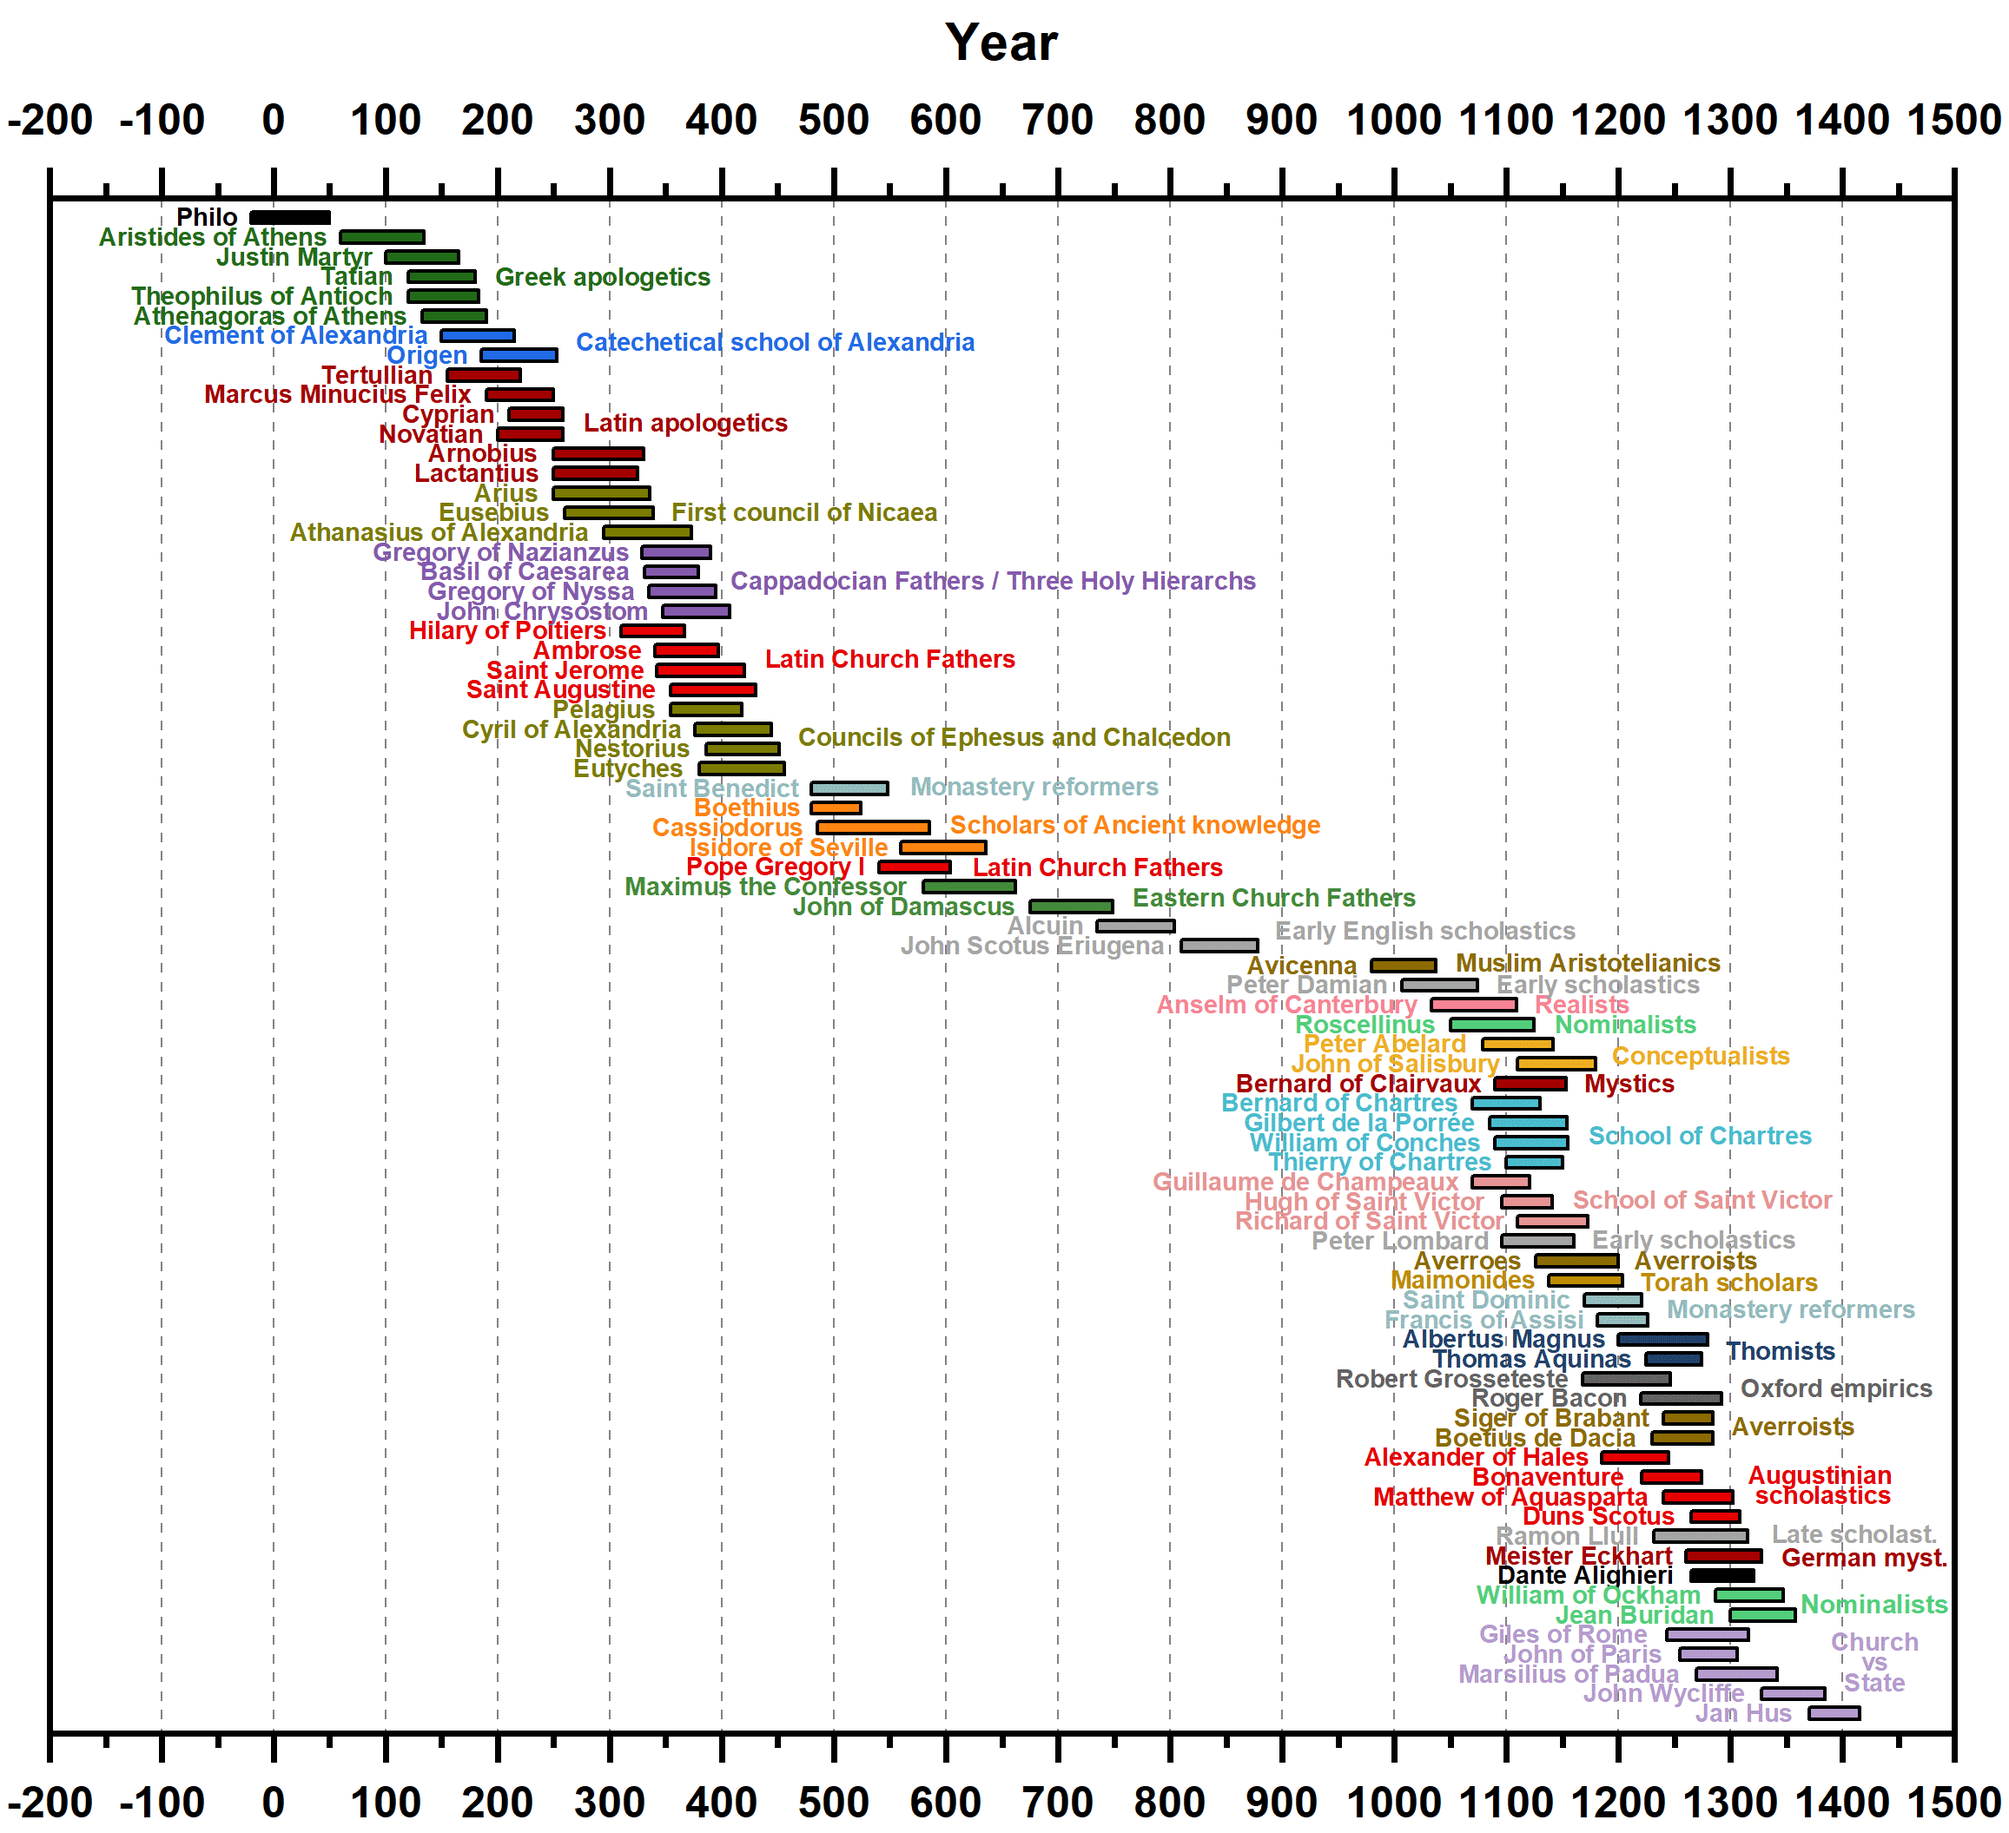
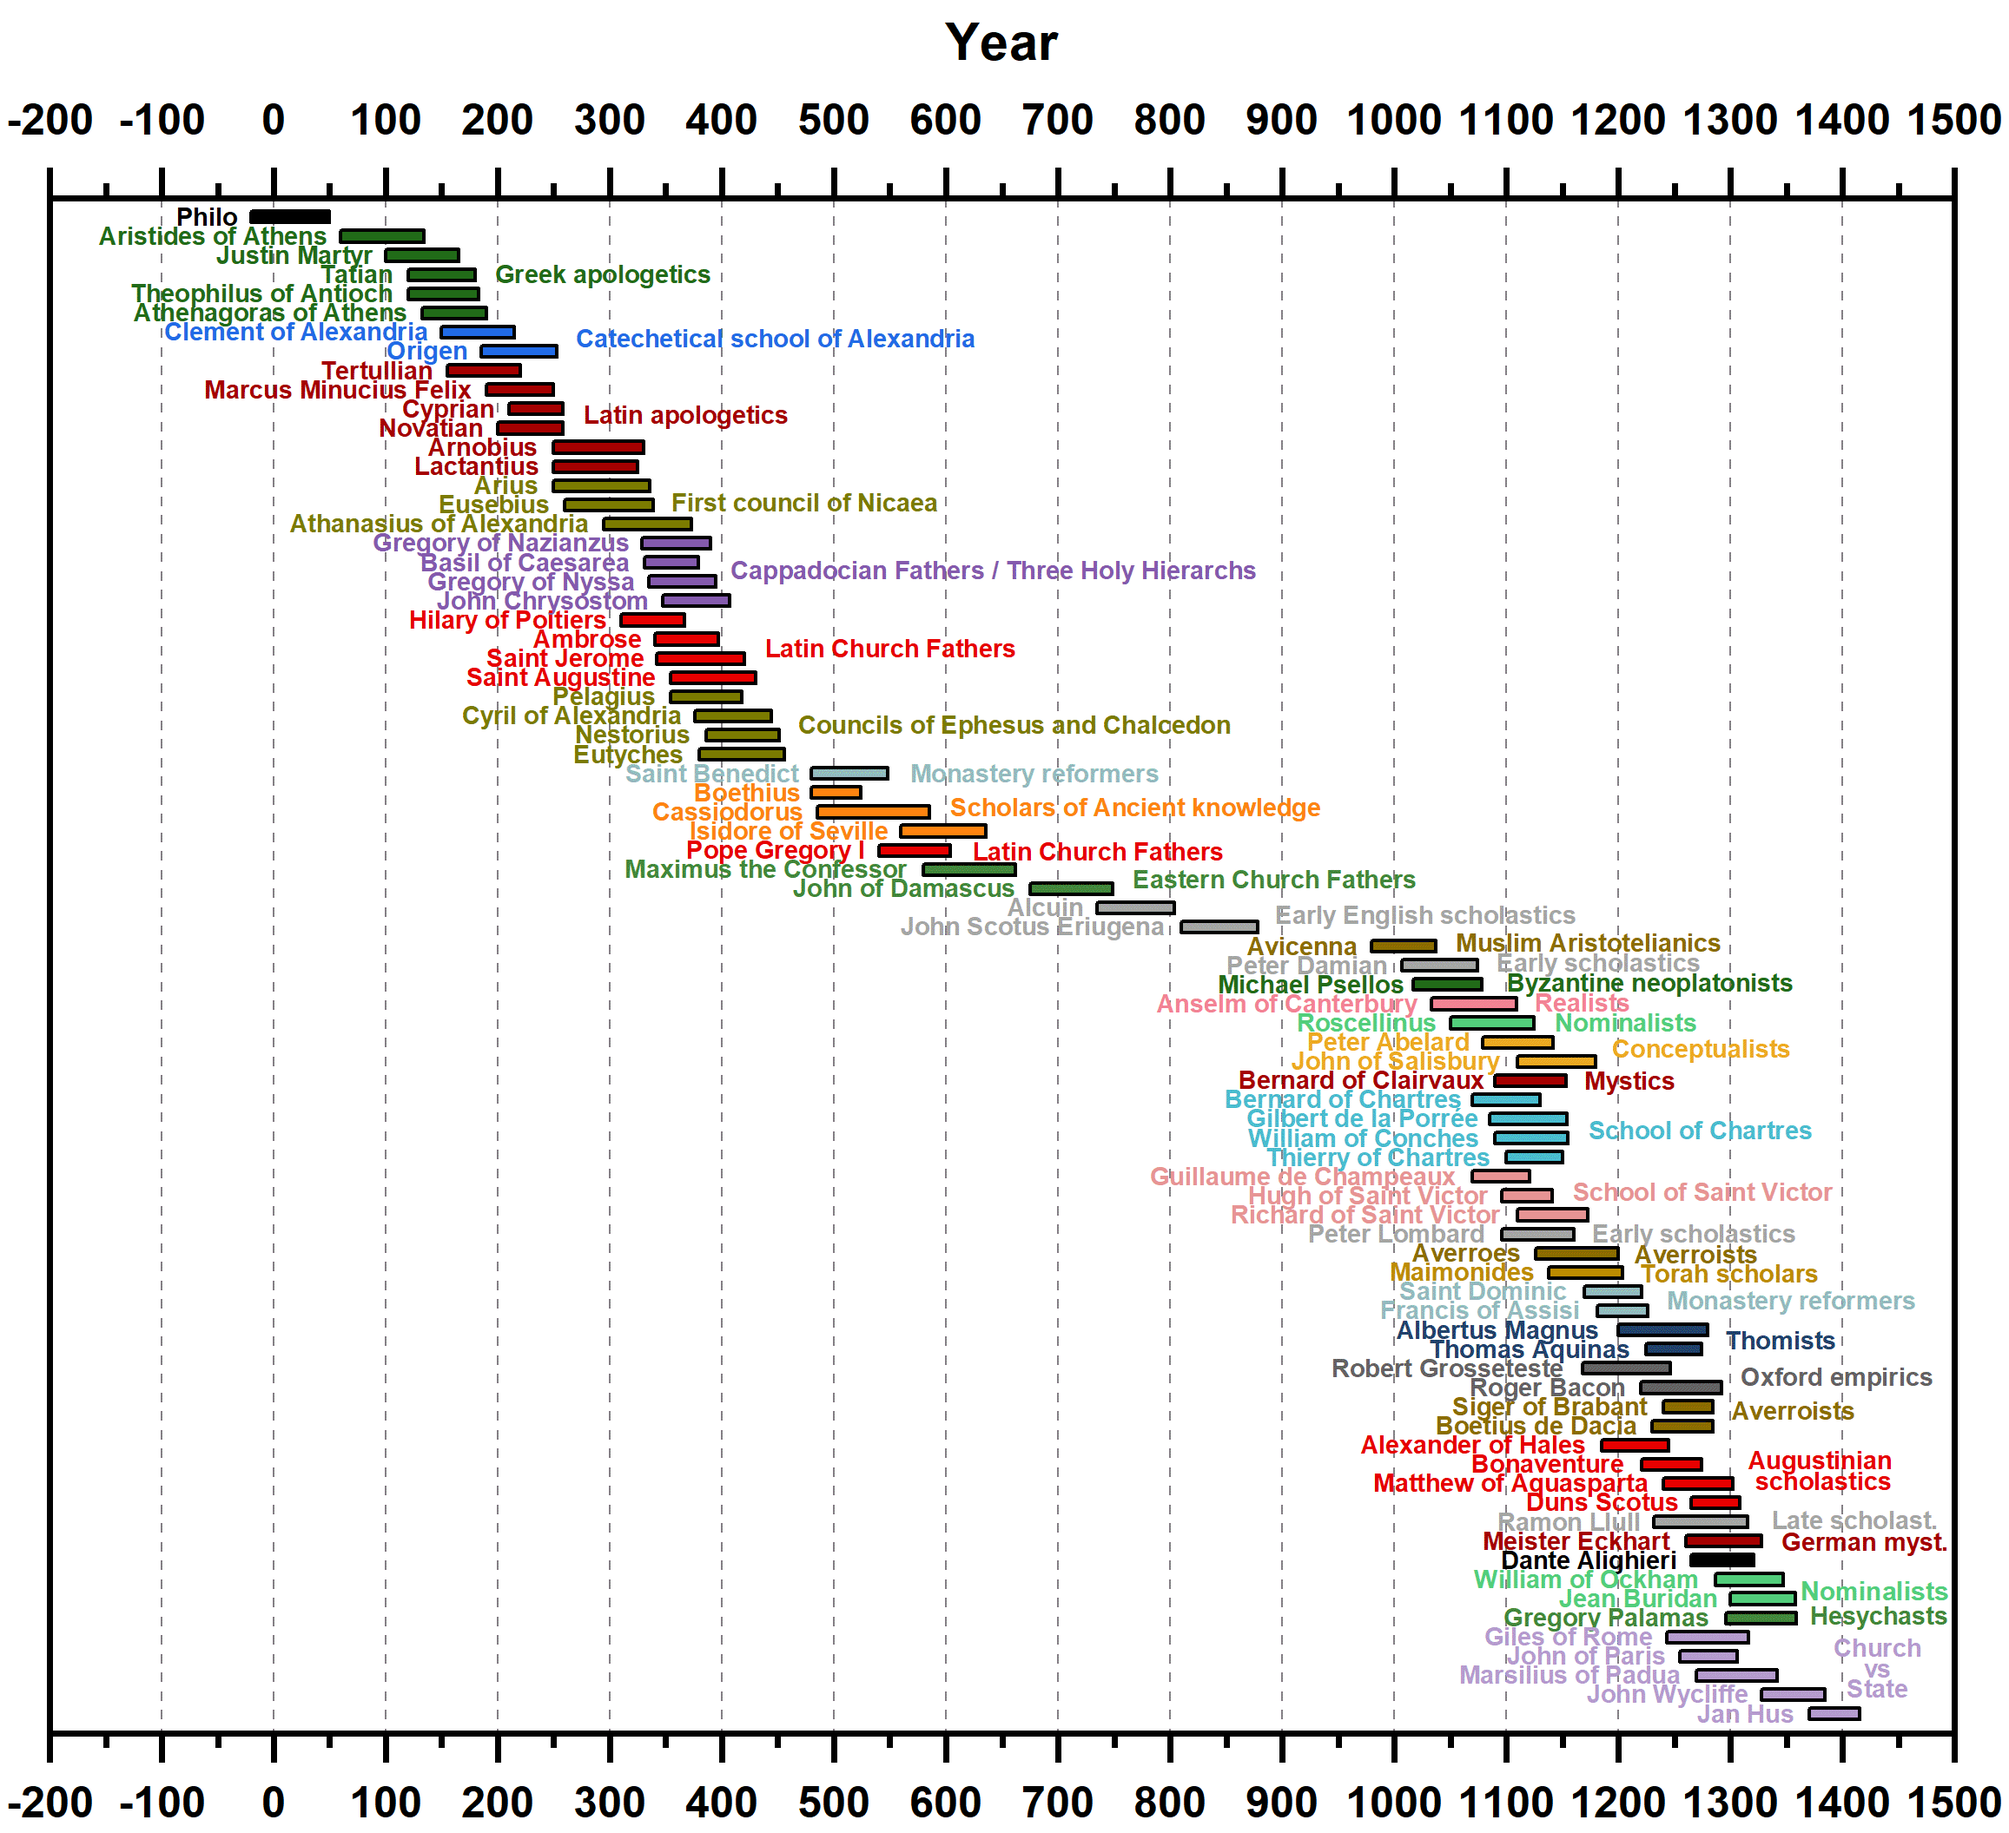
Fixed philosophy

Changed region(s): [[0.0623, 0.1232, 0.965, 0.9545], [0.4358, 0.1847, 0.4669, 0.2155]]

diff --git a/_pages/philosophy.md b/_pages/philosophy.md
@@ -13,14 +13,16 @@ I could look over with one glance, but that would systemize what I've learned. T
 on a timeline. On the one hand, it automatically provides a more-or-less ordered list that can be useful for remembering
 ideas based on names, and on the other hand, it creates an important feeling of relativity, puts the dates in context,
 reminding you that some philosophers from the "same" period were as far away from each other as the French Revolution is from us.
+The list is mostly based on Reale and Antiseri's "Il pensiero occidentale dalle origini ad oggi" in three volumes,
+with some additions from various sources.
 
 <p style="color:#888888;"><i>Note: some dates are only approximate, and the categorization is mostly for my own convenience and the ease of learning, not always based on the shared school of thought.</i></p>
 
-<h2>Ancient philosophy (64 philosophers)</h2>
+<h2>Ancient philosophy (64 names)</h2>
 
 <img src="/images/philosophy_ancient.png">
 
-<h2>Medieval philosophy (77 philosophers)</h2>
+<h2>Medieval philosophy (79 names)</h2>
 
 <img src="/images/philosophy_medieval.png">
 
